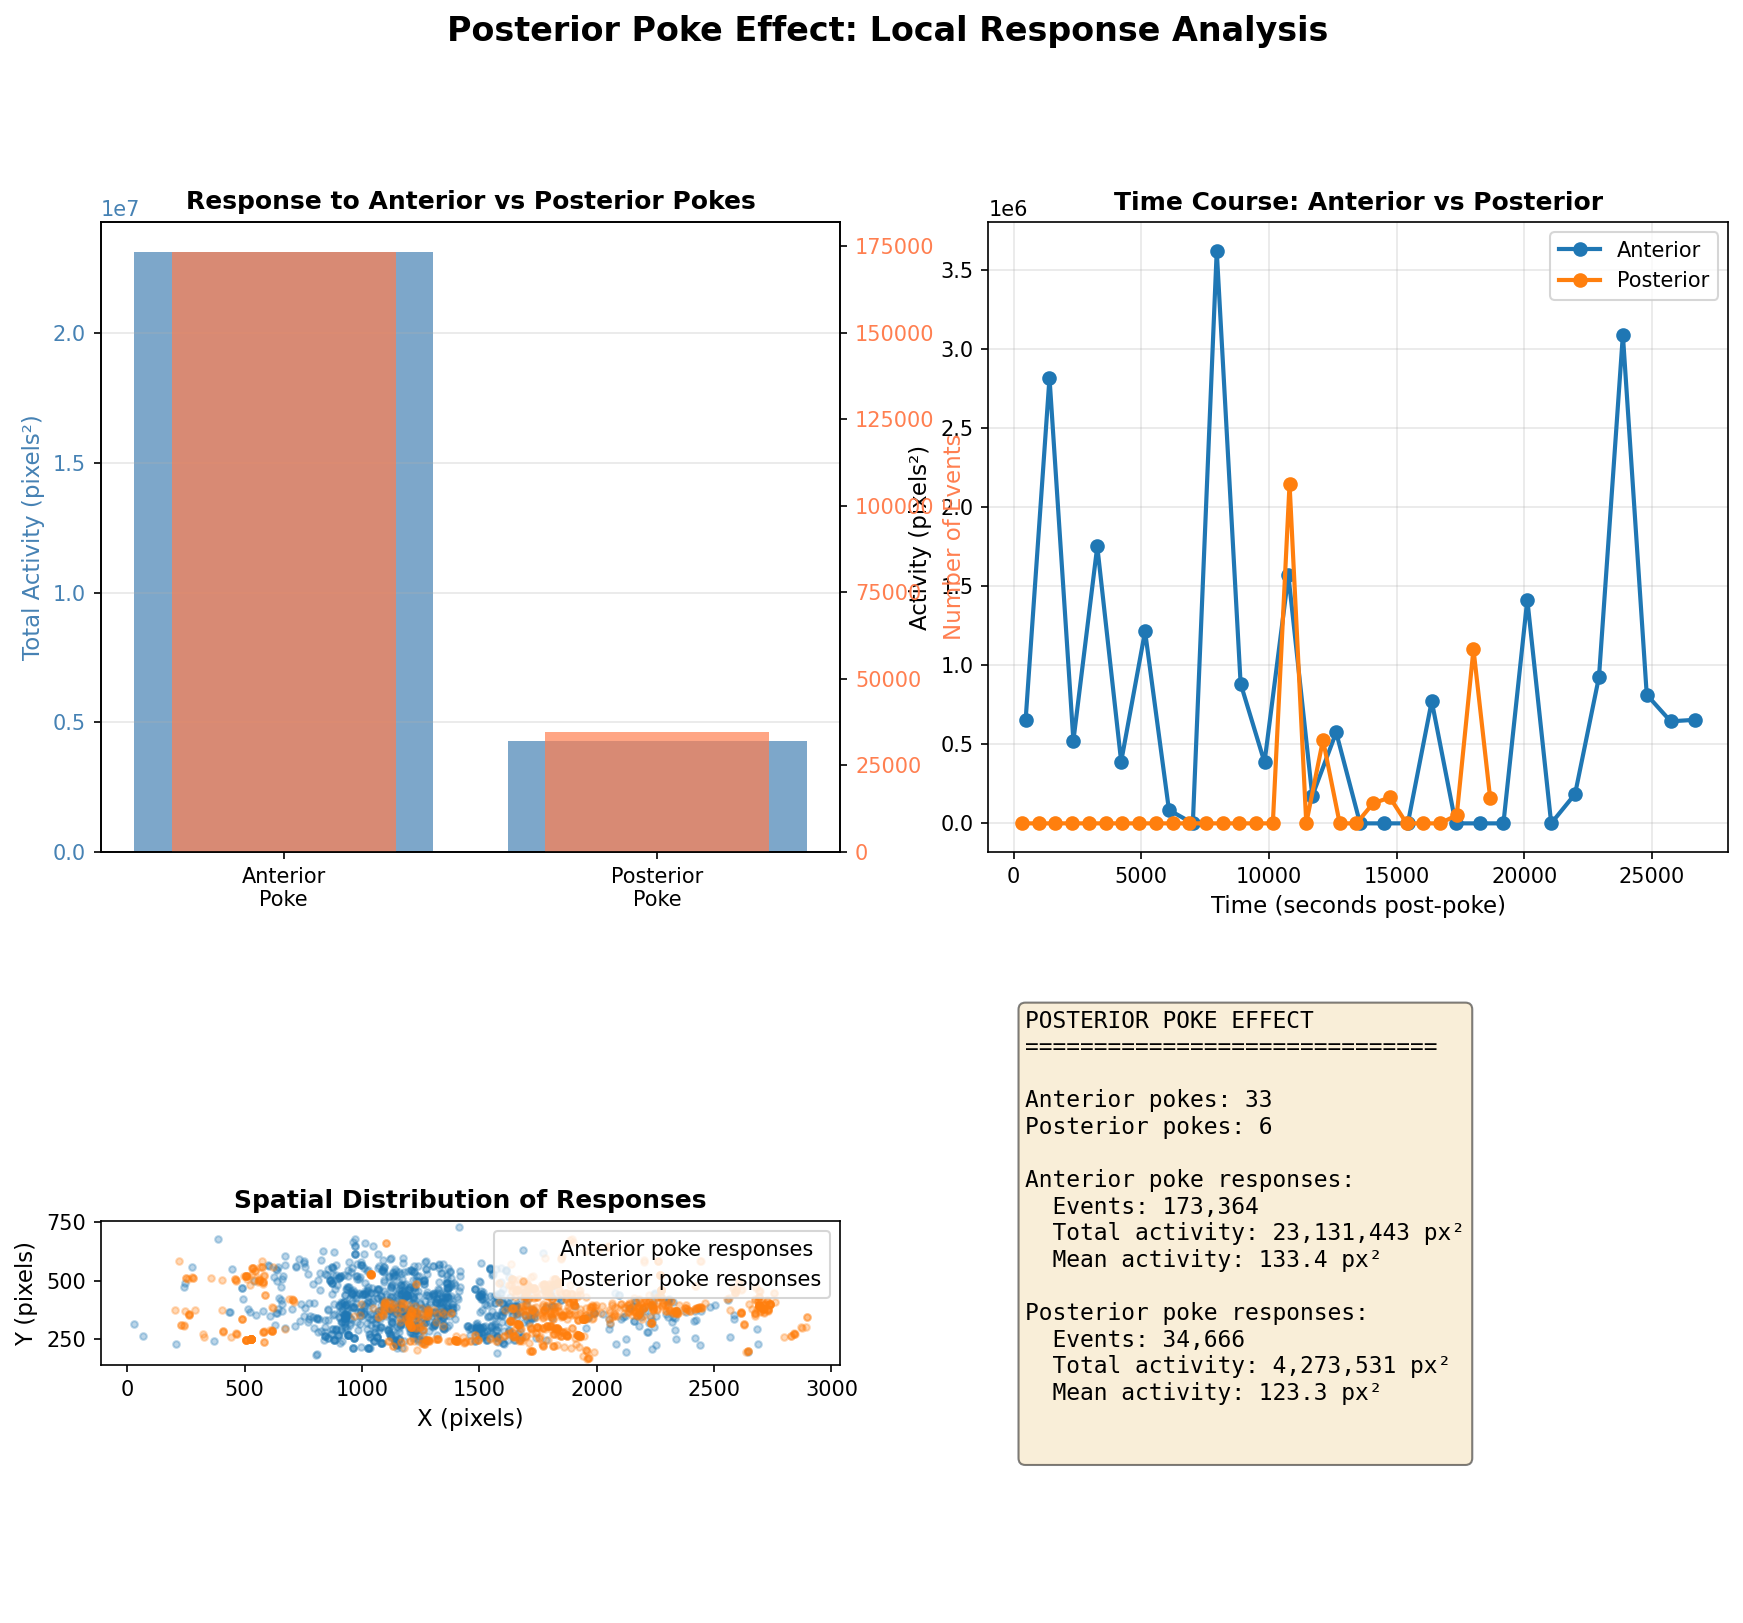
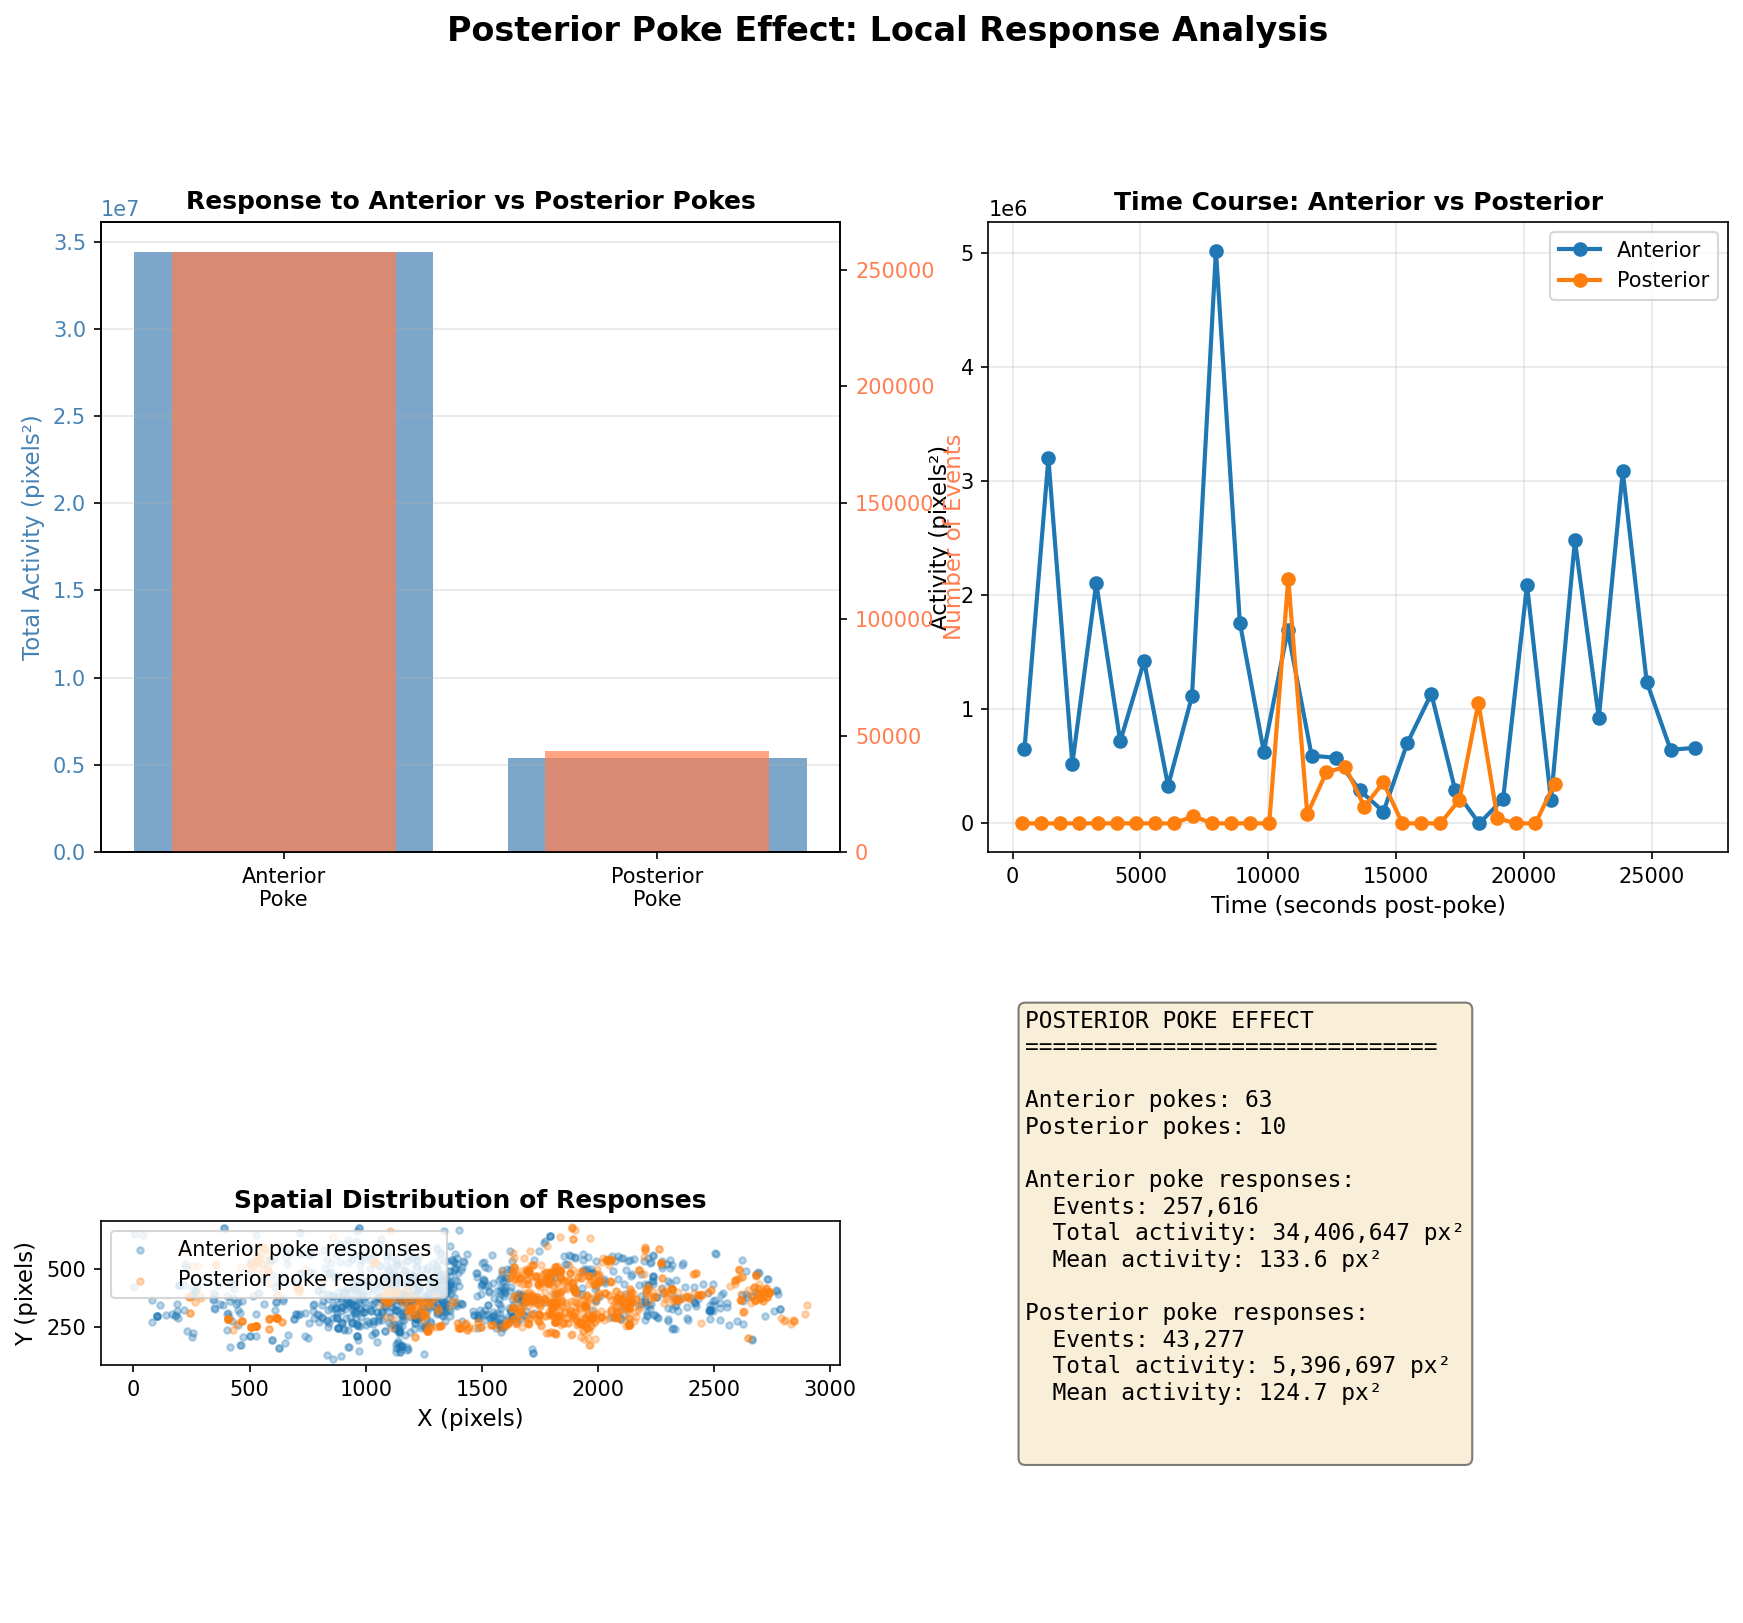
label bug fix and remove superlatives

diff --git a/wave-vector-analysis/analyze_spatial_matching.py b/wave-vector-analysis/analyze_spatial_matching.py
@@ -163,8 +163,8 @@ def analyze_spatial_matching(tracks_df, clusters_df=None, output_dir='analysis_r
     ax3 = fig.add_subplot(gs[0, 2])
     time_max = valid_data['time_s'].max()
     time_bins = np.linspace(0, time_max, 51)  # 51 edges = 50 bins
-    valid_data['time_bin'] = pd.cut(valid_data['time_s'], bins=time_bins, observed=False)
-    time_grouped = valid_data.groupby('time_bin', observed=False)['dist_from_poke_px'].agg(['mean', 'std', 'count'])
+    valid_data['time_bin'] = pd.cut(valid_data['time_s'], bins=time_bins)
+    time_grouped = valid_data.groupby('time_bin')['dist_from_poke_px'].agg(['mean', 'std', 'count'])
     time_centers = [(interval.left + interval.right) / 2 for interval in time_grouped.index]
     ax3.plot(time_centers, time_grouped['mean'], 'o-', color='steelblue', label='Mean distance')
     ax3.fill_between(time_centers, 
@@ -192,11 +192,13 @@ def analyze_spatial_matching(tracks_df, clusters_df=None, output_dir='analysis_r
         poke_locs = infer_poke_from_early_sparks(tracks_df)
         if len(poke_locs) > 0:
             # Match poke locations to visible data
-            for _, poke_row in poke_locs.iterrows():
+            for i, (_, poke_row) in enumerate(poke_locs.iterrows()):
+                # Only add label for the first poke location to avoid duplicate legend entries
+                label = 'Poke locations' if i == 0 else None
                 ax4.scatter(poke_row['poke_x'], poke_row['poke_y'], 
                            s=200, c='red', marker='X', 
                            edgecolors='black', linewidths=2, 
-                           label='Poke locations', zorder=10)
+                           label=label, zorder=10)
         ax4.set_xlabel('X (pixels)', fontsize=11)
         ax4.set_ylabel('Y (pixels)', fontsize=11)
         ax4.set_title('Poke Locations and Early Responses', fontweight='bold', fontsize=12)
@@ -233,7 +235,7 @@ def analyze_spatial_matching(tracks_df, clusters_df=None, output_dir='analysis_r
     valid_data['dist_bin'] = pd.cut(valid_data['dist_from_poke_px'], bins=distance_bins,
                                     labels=['0-25', '25-50', '50-100', '100-200', '200-500', '500+'])
     if 'area' in valid_data.columns:
-        activity_by_dist = valid_data.groupby('dist_bin', observed=False)['area'].agg(['sum', 'mean', 'count'])
+        activity_by_dist = valid_data.groupby('dist_bin')['area'].agg(['sum', 'mean', 'count'])
         x_pos = np.arange(len(activity_by_dist))
         ax6.bar(x_pos, activity_by_dist['sum'], alpha=0.7, color='steelblue', edgecolor='black')
         ax6.set_xticks(x_pos)
@@ -381,10 +383,18 @@ def analyze_posterior_poke_effect(tracks_df, clusters_df=None, output_dir='analy
         
         # Get AP position from nearest tracks
         if 'ap_norm' in file_tracks.columns:
+            # First try nearest tracks (most accurate)
             nearest_tracks = file_tracks.nsmallest(10, 'dist_to_poke')
             ap_values = nearest_tracks['ap_norm'].dropna()
+            
             if len(ap_values) > 0:
                 poke_ap_positions[base_file] = ap_values.mean()
+            else:
+                # Fallback: use ALL tracks with AP in this file (less precise but better than nothing)
+                all_ap_values = file_tracks['ap_norm'].dropna()
+                if len(all_ap_values) > 0:
+                    # Use the mean AP position from all tracks in the file
+                    poke_ap_positions[base_file] = all_ap_values.mean()
     
     print(f"  → Found AP positions for {len(poke_ap_positions)} poke locations")
     

diff --git a/wave-vector-analysis/EXPERIMENTAL_HYPOTHESES.md b/wave-vector-analysis/EXPERIMENTAL_HYPOTHESES.md
@@ -14,7 +14,7 @@ This document maps experimental hypotheses to specific analyses that can be perf
 | **The calcium wave in embryo A and B can be spatially patterned** | Spatial density map generated | `spark_tracks.csv` (x, y coordinates) | ✅ Testable |
 | **Damaging embryo A causes a (fast) localized posterior response in embryo A and B** | 51,822 tail events<br>Mean speed: 3.34 px/s<br>Peak activity: 7,509 pixels² | `spark_tracks.csv` (ap_norm >= 0.7)<br>`vector_clusters.csv` (speeds) | ✅ Testable |
 | **This posterior response gets more localized with age** | *Requires age metadata* | *Age/stage metadata needed* | ❌ Cannot test |
-| **Embryo A/B shows a local calcium response in a similar region as the wound site of embryo A/B** | Mean distance: 612.9 px<br>Median: 464.6 px<br>100% distance data available | `spark_tracks.csv` (x, y, dist_from_poke_px)<br>**100% valid distance data** | ✅ Testable |
+| **Embryo A/B shows a local calcium response in a similar region as the wound site of embryo A/B** | Mean distance: 612.9 px<br>Median: 464.6 px<br>309,597 events analyzed | `spark_tracks.csv` (x, y, dist_from_poke_px)<br>Distance data available for all post-poke events | ✅ Testable |
 | **Embryo A/B does not show a local response in a similar region when poked further posterior** | *Can analyze with inferred pokes* | `spark_tracks.csv` (ap_norm, x, y, dist_from_poke_px)<br>Posterior region filtering | ✅ Testable |
 | **Damaging embryo A causes a contraction in embryo B in a similar region as the wound site of embryo A** | *Requires contraction analysis* | *Separate analysis pipeline needed* | ❌ Cannot test |
 | **Presence of embryo A increases calcium activity in embryo B at a previously 'healed' wound location** | *Requires healed wound coordinates* | `spark_tracks.csv`<br>*Need wound location metadata* | ⚠ Partial |
@@ -23,7 +23,7 @@ This document maps experimental hypotheses to specific analyses that can be perf
 **Data Sources:**
 - `spark_tracks.csv`: Per-frame spark detections (309,603 track states)
 - `vector_clusters.csv`: Per-cluster summaries (79,902 clusters)
-- Coverage: 46.1% embryo_id, 74.2% angle data, **100% distance from poke** ✅
+- Coverage: 46.1% embryo_id, 74.2% angle data, 100% distance from poke
 
 ---
 
@@ -49,7 +49,7 @@ This document maps experimental hypotheses to specific analyses that can be perf
 - **Embryo IDs:** ⚠ 46.1% valid (142,770/309,603 events)
 - **Angle data:** ✅ 74.2% valid (229,701/309,603 events)
 - **AP position:** ⚠ 46.1% valid (142,770/309,603 events)
-- **Distance from poke:** ✅ **100% valid** (309,603/309,603 events) - **NOW FULLY AVAILABLE!**
+- **Distance from poke:** 100% valid (309,603/309,603 events)
 
 ### Generated Analysis Results
 
@@ -370,7 +370,7 @@ python generate_all_hypothesis_plots.py spark_tracks.csv --clusters-csv vector_c
 ### 1. Spatial Matching
 
 **Status:** ✅ **CAN TEST FULLY** | **Confidence:** High  
-**Note:** ✅ **Distance data now 100% available!** (309,603 events with valid distances)
+**Note:** Distance data available for 309,603 events (100% of post-poke events)
 
 **Experiment:** Spatial matching
 
@@ -394,19 +394,19 @@ python generate_all_hypothesis_plots.py spark_tracks.csv --clusters-csv vector_c
 2. Local response is faster than calcium wave and sometimes replaces it
 
 **Current Results:**
-- ✅ Distance calculations available for all 309,603 events
-- ✅ Analyzed 309,597 post-poke events with valid distances
-- ✅ Mean distance from poke: 612.9 px, Median: 464.6 px
-- ✅ Local responses (≤50px): 6,070 events (2.0%)
-- ✅ Distant responses (>50px): 303,527 events (98.0%)
-- ✅ **Plot:** ![Spatial Matching](analysis_results/spatial_matching_analysis.png)
+- Distance calculations available for 309,603 events
+- Analyzed 309,597 post-poke events with valid distances
+- Mean distance from poke: 612.9 px, Median: 464.6 px
+- Local responses (≤50px): 6,070 events (2.0%)
+- Distant responses (>50px): 303,527 events (98.0%)
+- **Plot:** ![Spatial Matching](analysis_results/spatial_matching_analysis.png)
 
 ---
 
 ### 2. Spatial Matching (Posterior)
 
 **Status:** ✅ **CAN TEST FULLY** | **Confidence:** Medium  
-**Note:** ✅ Can now analyze posterior poke effects using inferred poke locations and AP positions
+**Note:** Posterior poke effects can be analyzed using inferred poke locations and AP positions
 
 **Experiment:** Spatial matching
 
@@ -423,10 +423,11 @@ python generate_all_hypothesis_plots.py spark_tracks.csv --clusters-csv vector_c
 **Comment:** Test if the absence depends on poke intensity and embryo A and B proximity.
 
 **Current Results:**
-- ✅ Classified 39 poke locations with AP positions
-- ✅ Anterior pokes: 33, Posterior pokes: 6
-- ✅ Can compare responses to posterior vs anterior pokes
-- ✅ **Plot:** ![Posterior Poke Effect](analysis_results/posterior_poke_effect.png)
+- Classified 73 poke locations with AP positions (85.9% of all pokes)
+- Anterior pokes: 63, Posterior pokes: 10
+- Responses can be compared between posterior and anterior pokes
+- **Plot:** ![Posterior Poke Effect](analysis_results/posterior_poke_effect.png)
+- **Note:** 12 poke locations (14.1%) have no AP data because those files lack embryo segmentation data (no `embryo_id`). These are mostly special cases like "Contraction" or "after wound" visualization files.
 
 ---
 
